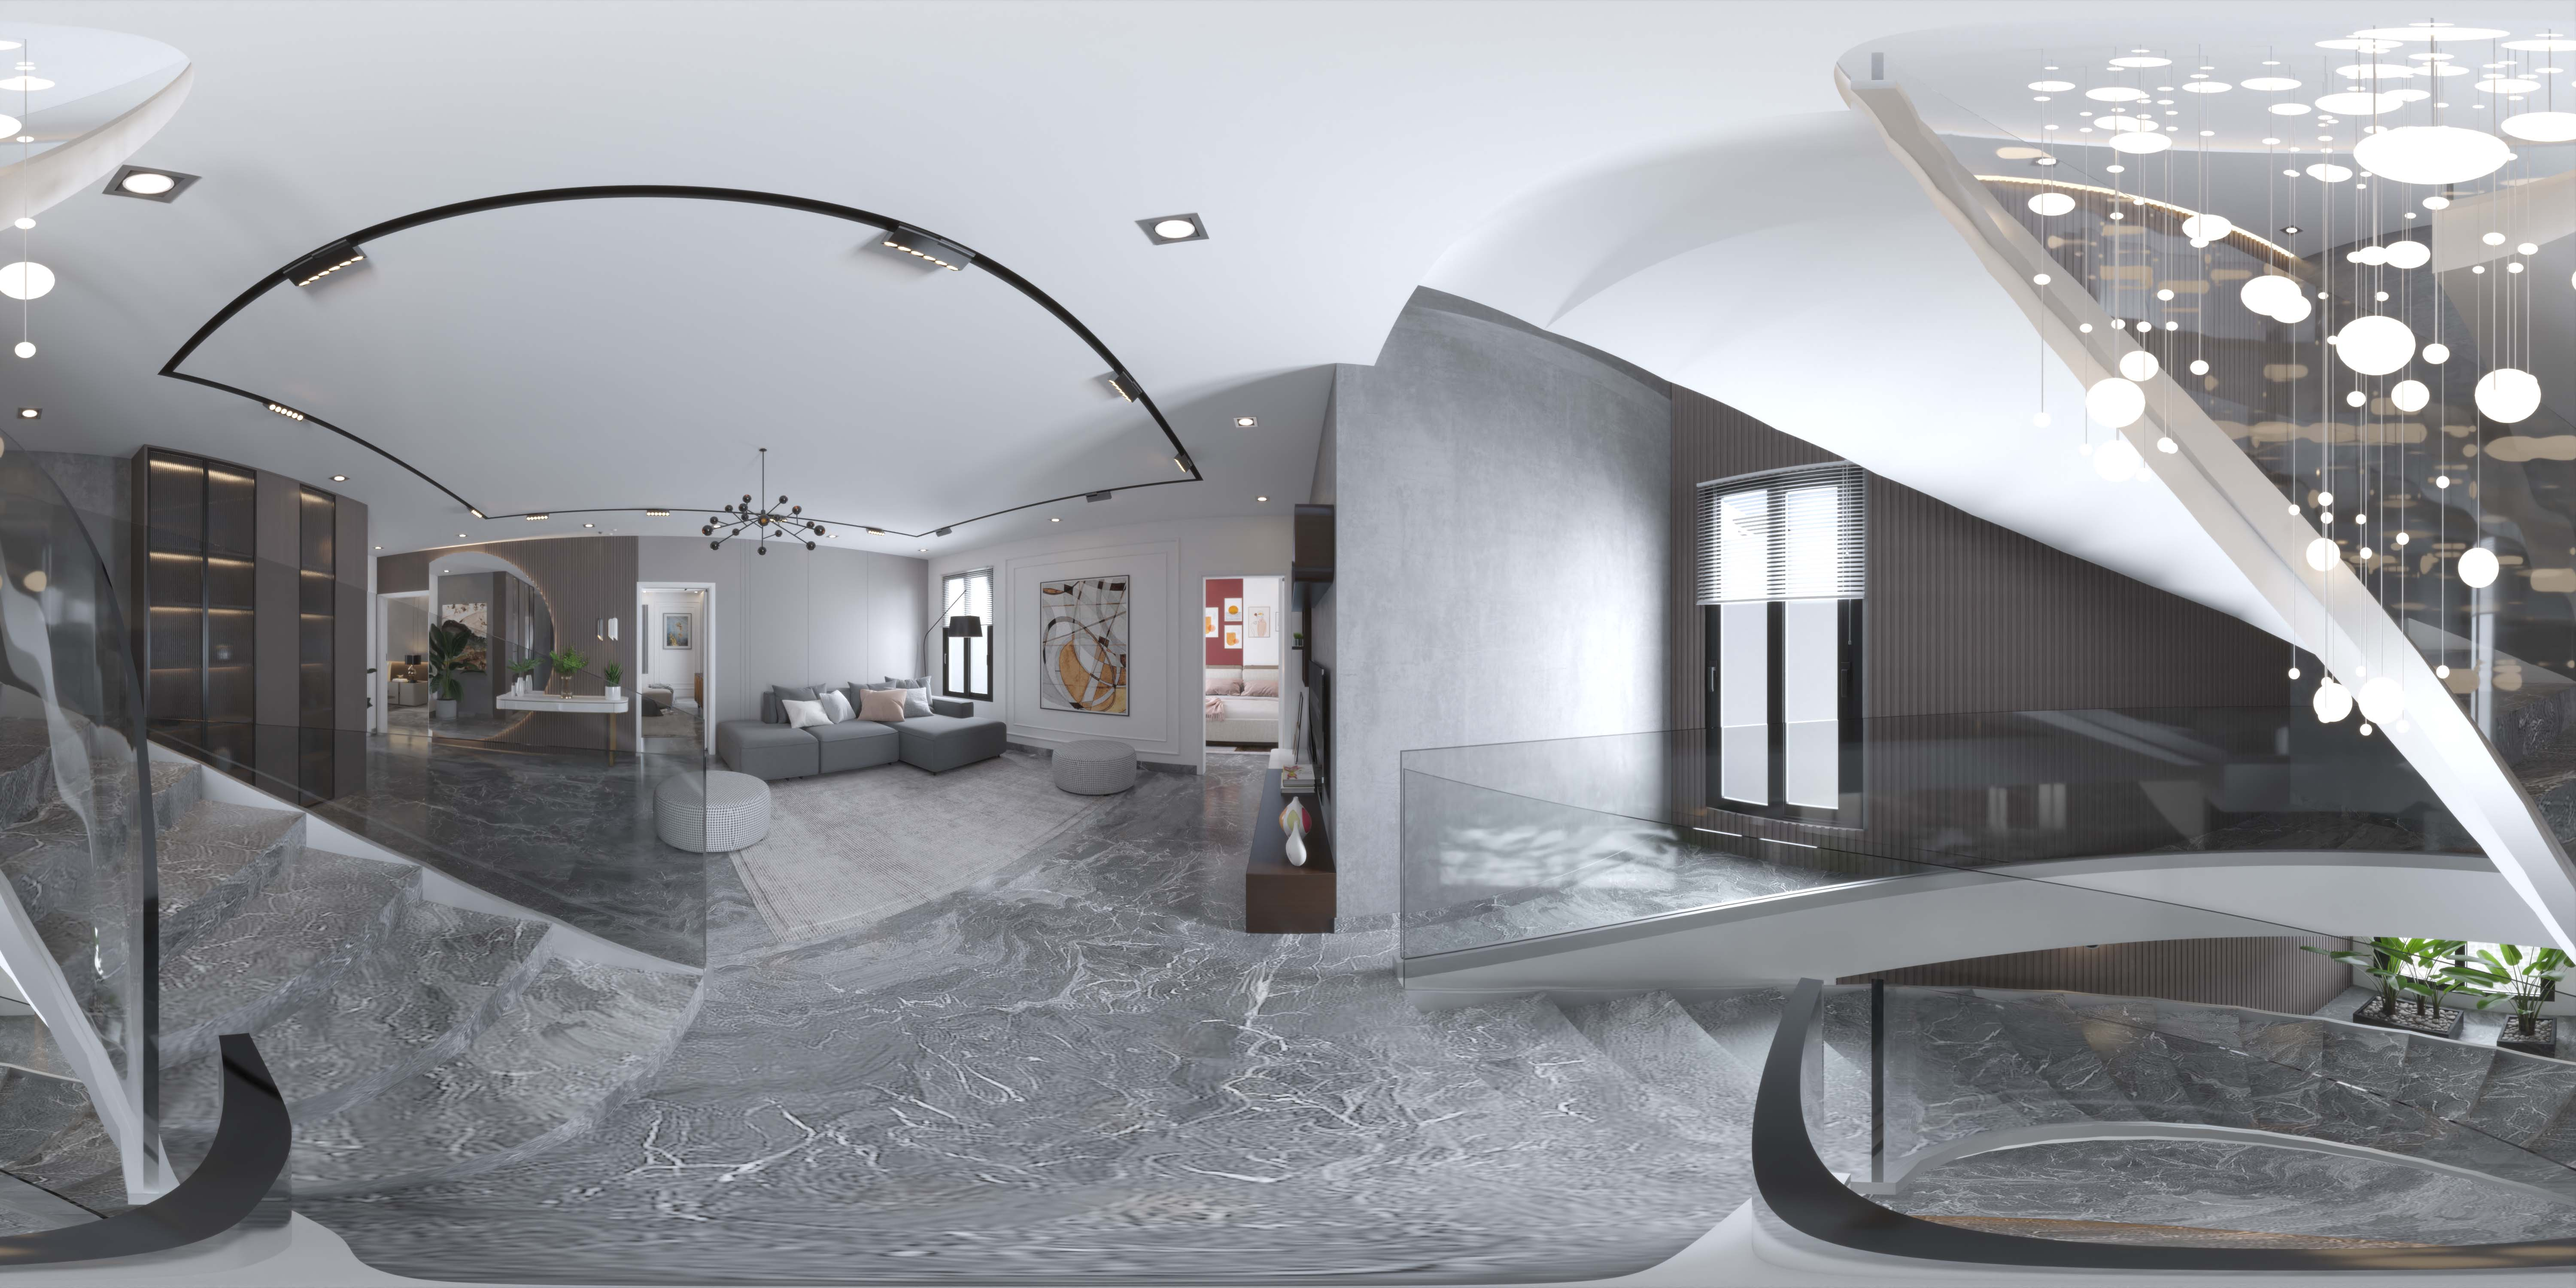
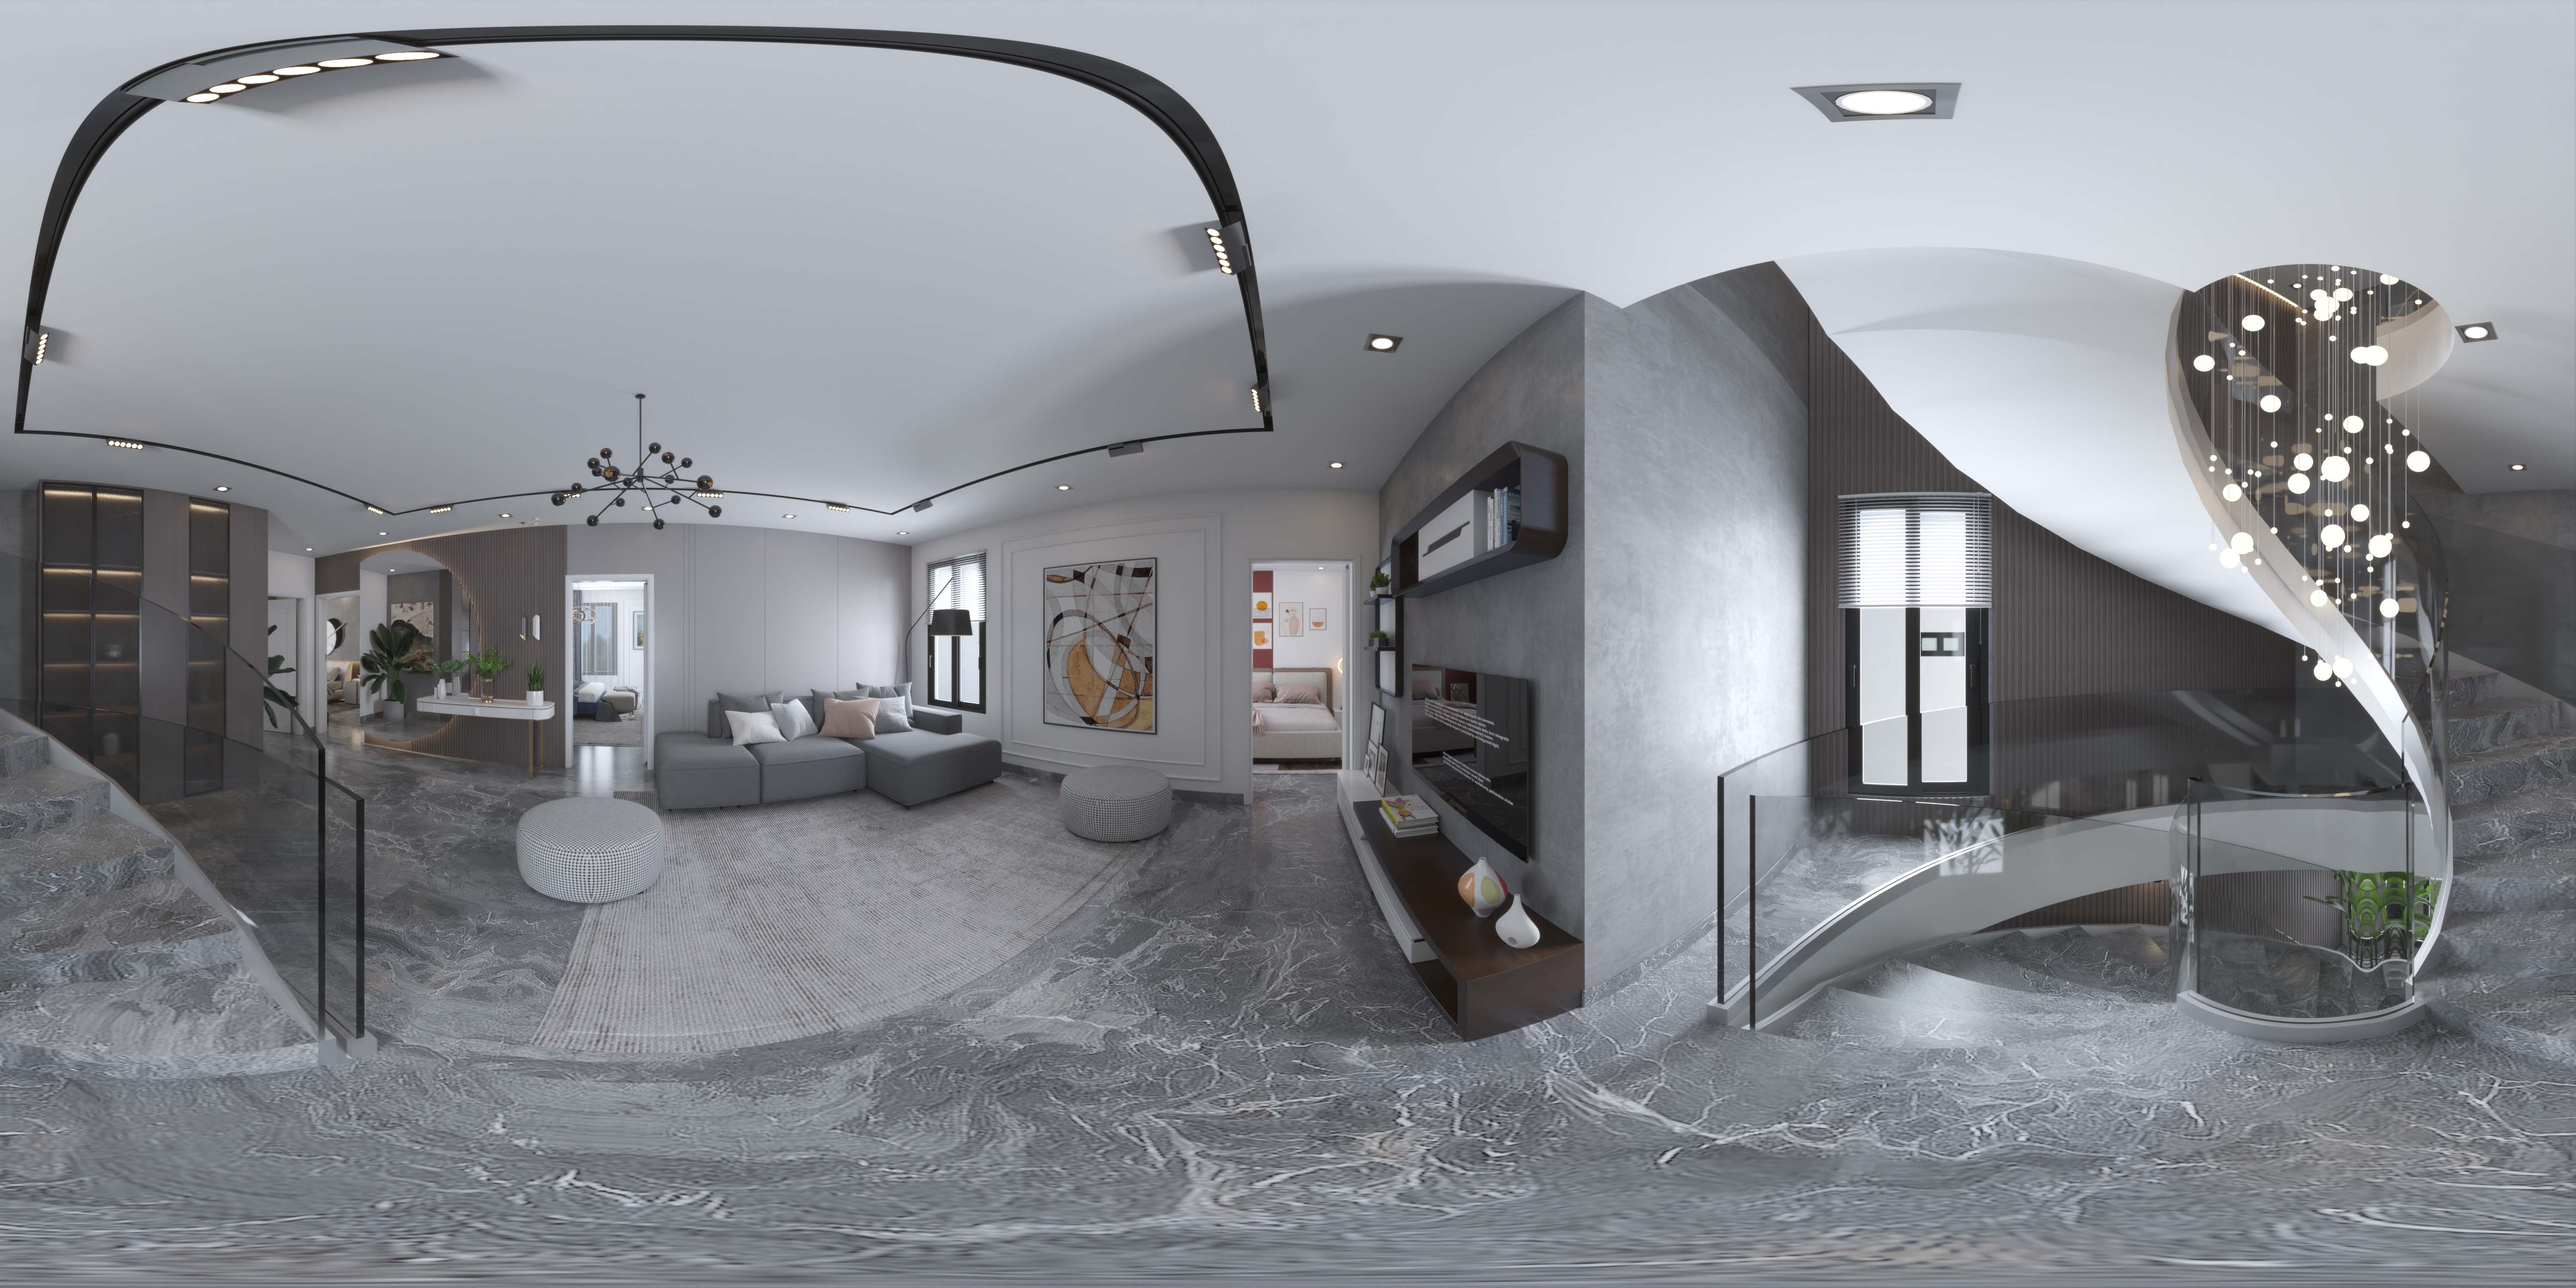
first commit -27

diff --git a/index.html b/index.html
@@ -103,6 +103,16 @@ de haut standing" />
             <img id="Scene-44" src="./Style/Images/Scene-44.jpg">
             <img id="Scene-45" src="./Style/Images/Scene-45.jpg">
             <img id="Scene-46" src="./Style/Images/Scene-46.jpg">
+            <img id="Scene-47" src="./Style/Images/Scene-47.jpg">
+            <img id="Scene-48" src="./Style/Images/Scene-48.jpg">
+            <img id="Scene-49" src="./Style/Images/Scene-49.jpg">
+            <img id="Scene-50" src="./Style/Images/Scene-50.jpg">
+            <img id="Scene-51" src="./Style/Images/Scene-51.jpg">
+            <img id="Scene-52" src="./Style/Images/Scene-52.jpg">
+            <img id="Scene-53" src="./Style/Images/Scene-53.jpg">
+            <img id="Scene-54" src="./Style/Images/Scene-54.jpg">
+            <img id="Scene-55" src="./Style/Images/Scene-55.jpg">
+            <img id="Scene-56" src="./Style/Images/Scene-56.jpg">
 
         </a-assets>
         <a-sound position="0 15 0" sound="src: #the_sound; autoplay: true; loop: true" allow="autoplay"></a-sound>
@@ -855,14 +865,23 @@ de haut standing" />
         <a-entity scale="0 0 0" class="groups" id="Group-35" visible="false">
 
             <a-plane data-clickable class="Dote" material="src: #Arrow-3; transparent:true"
-                position="-0.98514 -0.373 -0.60191" rotation="-80.92455898427748 15.328339893134913 -31.740715934657345"
+                position="0.14524 -0.43083 -0.76731"
+                rotation="-80.92455898427748 15.328339893134913 -31.740715934657345"
                 the_dote="Name_of_dote: Dote-21 ; Group_to_activate: Group-21; The_rotation: 0">
             </a-plane>
 
+
             <a-plane data-clickable class="Dote" material="src: #Arrow-1; transparent:true"
-                position="-2.60987 -0.373 2.92351" rotation="-82.23605937733193 119.56196789892454 173.6440271391181"
+                position="-1.28956 -0.373 2.26755" rotation="-82.23605937733193 119.56196789892454 173.6440271391181"
                 the_dote="Name_of_dote: Dote-36 ; Group_to_activate: Group-36; The_rotation: 0">
             </a-plane>
+
+
+            <a-plane data-clickable class="Dote" material="src: #Arrow-1; transparent:true"
+                position="0.64666 -0.373 6.67923" rotation="-82.23605937733193 119.56196789892454 173.6440271391181"
+                the_dote="Name_of_dote: Dote-52 ; Group_to_activate: Group-52; The_rotation: 0">
+            </a-plane>
+
 
 
         </a-entity>
@@ -883,6 +902,11 @@ de haut standing" />
                 position="4.5156 -0.373 1.77529" rotation="-80.92455898427748 -33.59423440190556 -31.740715934657345"
                 the_dote="Name_of_dote: Dote-40 ; Group_to_activate: Group-40; The_rotation: 0">
             </a-plane>
+            <a-plane data-clickable class="Dote" material="src: #Arrow-1; transparent:true"
+                position="2.82841 -0.373 4.93333" rotation="-82.31455459526485 10.750980067834767 -76.51450283515553"
+                the_dote="Name_of_dote: Dote-52 ; Group_to_activate: Group-52; The_rotation: 0">
+            </a-plane>
+
 
 
         </a-entity>
@@ -935,6 +959,11 @@ de haut standing" />
                 position="2.81879 -0.75422 1.90233" rotation="-83.54870568597664 -75.37431682284519 7.846084046521494"
                 the_dote="Name_of_dote: Dote-41 ; Group_to_activate: Group-41; The_rotation: 0">
             </a-plane>
+            <a-plane data-clickable class="Dote" material="src: #Arrow-1; transparent:true"
+                position="-3.13517 -0.75422 4.09567" rotation="-82.23605937733193 119.56196789892454 173.6440271391181"
+                the_dote="Name_of_dote: Dote-52 ; Group_to_activate: Group-52; The_rotation: 0">
+            </a-plane>
+
 
         </a-entity>
 
@@ -1013,14 +1042,190 @@ de haut standing" />
                 the_dote="Name_of_dote: Dote-41 ; Group_to_activate: Group-41; The_rotation: 0">
             </a-plane>
 
+            <a-plane data-clickable class="Dote" material="src: #Arrow-1; transparent:true"
+                position="4.22377 -0.75422 -0.32519"
+                rotation="-82.57696926543477 -121.05624182862573 53.823655274589534"
+                the_dote="Name_of_dote: Dote-47 ; Group_to_activate: Group-47; The_rotation: 0">
+            </a-plane>
+
+            <a-plane data-clickable class="Dote" material="src: #Arrow-1; transparent:true"
+                position="-1.0307 -0.75422 -4.30097"
+                rotation="-82.57696926543477 -121.05624182862573 53.823655274589534"
+                the_dote="Name_of_dote: Dote-48 ; Group_to_activate: Group-48 ; The_rotation: 0">
+            </a-plane>
+
+
         </a-entity>
         <!-- Group-46 -->
         <a-entity scale="0 0 0" class="groups" id="Group-46" visible="false">
 
             <a-plane data-clickable class="Dote" material="src: #Arrow-1; transparent:true"
-                position="-4.39296 -0.75422 -1.00623" rotation="-74.38252687947373 90.89860828191483 -170.845128309904"
+                position="-3.92266 -0.75422 -2.53053" rotation="-74.38252687947373 90.89860828191483 -170.845128309904"
+                the_dote="Name_of_dote: Dote-48 ; Group_to_activate: Group-48; The_rotation: 0">
+            </a-plane>
+
+            <a-plane data-clickable class="Dote" material="src: #Arrow-1; transparent:true"
+                position="1.32221 -0.75422 2.88116" rotation="-87.17552852915476 -94.91561538357705 14.929561267723862"
+                the_dote="Name_of_dote: Dote-47 ; Group_to_activate: Group-47; The_rotation: 0">
+            </a-plane>
+            <a-plane data-clickable class="Dote" material="src: #Arrow-1; transparent:true"
+                position="2.89391 -0.373 5.04635" rotation="-85.40337006881512 -176.07451410606302 110.4605333232714"
+                the_dote="Name_of_dote: Dote-52 ; Group_to_activate: Group-52; The_rotation: 0">
+            </a-plane>
+
+
+
+
+        </a-entity>
+        <!-- Group-47 -->
+        <a-entity scale="0 0 0" class="groups" id="Group-47" visible="false">
+
+            <a-plane data-clickable class="Dote" material="src: #Arrow-1; transparent:true"
+                position="-5.14353 -0.75422 0.61015" rotation="-74.38252687947373 90.89860828191483 -170.845128309904"
                 the_dote="Name_of_dote: Dote-45 ; Group_to_activate: Group-45; The_rotation: 0">
             </a-plane>
+            <a-plane data-clickable class="Dote" material="src: #Arrow-1; transparent:true"
+                position="-0.95179 -0.75422 -3.64704" rotation="-89.11842841244338 105.9284371637866 174.09379900829578"
+                the_dote="Name_of_dote: Dote-46 ; Group_to_activate: Group-46; The_rotation: 0">
+            </a-plane>
+
+        </a-entity>
+        <!-- Group-48 -->
+        <a-entity scale="0 0 0" class="groups" id="Group-48" visible="false">
+
+            <a-plane data-clickable class="Dote" material="src: #Arrow-1; transparent:true"
+                position="-0.05401 -0.75422 5.04346" rotation="-88.1896638265363 97.68128266067353 -177.65702353621435"
+                the_dote="Name_of_dote: Dote-45 ; Group_to_activate: Group-45; The_rotation: 0">
+            </a-plane>
+
+            <a-plane data-clickable class="Dote" material="src: #Arrow-1; transparent:true"
+                position="-0.53482 -0.75422 -5.46738" rotation="-89.1184284124434 105.9284371637866 174.09379900829578"
+                the_dote="Name_of_dote: Dote-49 ; Group_to_activate: Group-49; The_rotation: 0">
+            </a-plane>
+            <a-plane data-clickable class="Dote" material="src: #Arrow-1; transparent:true"
+                position="4.80905 -0.75422 -4.24946" rotation="-75.11877764621684 -90.94215307434479 10.930888815505845"
+                the_dote="Name_of_dote: Dote-51 ; Group_to_activate: Group-51; The_rotation: 0">
+            </a-plane>
+
+        </a-entity>
+        <!-- Group-49 -->
+        <a-entity scale="0 0 0" class="groups" id="Group-49" visible="false">
+
+            <a-plane data-clickable class="Dote" material="src: #Arrow-1; transparent:true"
+                position="-0.61946 -0.42491 4.89855" rotation="-88.1896638265363 97.68128266067353 -177.65702353621435"
+                the_dote="Name_of_dote: Dote-48 ; Group_to_activate: Group-48; The_rotation: 0">
+            </a-plane>
+
+
+            <a-plane data-clickable class="Dote" material="src: #Arrow-1; transparent:true"
+                position="-3.21564 -0.75422 -0.98237" rotation="-89.1184284124434 105.9284371637866 174.09379900829578"
+                the_dote="Name_of_dote: Dote-50 ; Group_to_activate: Group-50; The_rotation: 0">
+            </a-plane>
+
+        </a-entity>
+        <!-- Group-50 -->
+        <a-entity scale="0 0 0" class="groups" id="Group-50" visible="false">
+
+            <a-plane data-clickable class="Dote" material="src: #Arrow-1; transparent:true"
+                position="2.96426 -0.42491 1.25588" rotation="-88.1896638265363 97.68128266067353 -177.65702353621435"
+                the_dote="Name_of_dote: Dote-49 ; Group_to_activate: Group-49; The_rotation: 0">
+            </a-plane>
+
+
+        </a-entity>
+        <!-- Group-51 -->
+        <a-entity scale="0 0 0" class="groups" id="Group-51" visible="false">
+
+            <a-plane data-clickable class="Dote" material="src: #Arrow-1; transparent:true"
+                position="-4.05781 -0.42491 3.49098" rotation="-88.1896638265363 97.68128266067353 -177.65702353621435"
+                the_dote="Name_of_dote: Dote-48 ; Group_to_activate: Group-48; The_rotation: 0">
+            </a-plane>
+
+        </a-entity>
+        <!-- Group-52 -->
+        <a-entity scale="0 0 0" class="groups" id="Group-52" visible="false">
+
+            <a-plane data-clickable class="Dote" material="src: #Arrow-1; transparent:true"
+                position="0.81257 -0.42491 -4.5427" rotation="-85.35409569843387 -92.98818536075694 12.998693498132987"
+                the_dote="Name_of_dote: Dote-40 ; Group_to_activate: Group-40; The_rotation: 0">
+            </a-plane>
+
+            <a-plane data-clickable class="Dote" material="src: #Arrow-1; transparent:true"
+                position="2.78739 -0.85361 2.8713" rotation="-88.1896638265363 97.68128266067353 -177.65702353621435"
+                the_dote="Name_of_dote: Dote-53 ; Group_to_activate: Group-53; The_rotation: 0">
+            </a-plane>
+            <a-plane data-clickable class="Dote" material="src: #Arrow-1; transparent:true"
+                position="-3.69997 -0.85361 0.87283" rotation="-88.1896638265363 97.68128266067353 -177.65702353621435"
+                the_dote="Name_of_dote: Dote-54 ; Group_to_activate: Group-54; The_rotation: 0">
+            </a-plane>
+
+
+        </a-entity>
+        <!-- Group-53 -->
+        <a-entity scale="0 0 0" class="groups" id="Group-53" visible="false">
+
+            <a-plane data-clickable class="Dote" material="src: #Arrow-1; transparent:true"
+                position="-2.27944 -0.85361 -2.87603" rotation="-88.1896638265363 97.68128266067353 -177.65702353621435"
+                the_dote="Name_of_dote: Dote-52 ; Group_to_activate: Group-52; The_rotation: 0">
+            </a-plane>
+            <a-plane data-clickable class="Dote" material="src: #Arrow-1; transparent:true"
+                position="-5.73482 -0.85361 -1.75042" rotation="-88.1896638265363 97.68128266067353 -177.65702353621435"
+                the_dote="Name_of_dote: Dote-54 ; Group_to_activate: Group-54; The_rotation: 0">
+            </a-plane>
+
+        </a-entity>
+        <!-- Group-54 -->
+        <a-entity scale="0 0 0" class="groups" id="Group-54" visible="false">
+
+            <a-plane data-clickable class="Dote" material="src: #Arrow-1; transparent:true"
+                position="3.16769 -0.85361 -1.45446" rotation="-88.1896638265363 97.68128266067353 -177.65702353621435"
+                the_dote="Name_of_dote: Dote-52 ; Group_to_activate: Group-52; The_rotation: 0">
+            </a-plane>
+
+            <a-plane data-clickable class="Dote" material="src: #Arrow-1; transparent:true"
+                position="5.44986 -0.64475 1.9428" rotation="-76.30651915552305 -91.02179420786797 11.013394738004685"
+                the_dote="Name_of_dote: Dote-53 ; Group_to_activate: Group-53; The_rotation: 0">
+            </a-plane>
+
+            <a-plane data-clickable class="Dote" material="src: #Arrow-1; transparent:true"
+                position="-0.34767 -0.64475 1.91487" rotation="-84.94901453727637 92.74811604459714 -172.7169814265964"
+                the_dote="Name_of_dote: Dote-55 ; Group_to_activate: Group-55; The_rotation: 0">
+            </a-plane>
+
+
+
+        </a-entity>
+        <!-- Group-55 -->
+        <a-entity scale="0 0 0" class="groups" id="Group-55" visible="false">
+
+
+            <a-plane data-clickable class="Dote" material="src: #Arrow-1; transparent:true"
+                position="-2.5588 -1.44778 -0.07868" rotation="-64.34717109775737 90.55884430940226 -170.48301898338133"
+                the_dote="Name_of_dote: Dote-56 ; Group_to_activate: Group-56; The_rotation: 0">
+            </a-plane>
+
+
+            <a-plane data-clickable class="Dote" material="src: #Arrow-1; transparent:true"
+                position="0.14078 -0.64475 -2.02885" rotation="-81.29468971993198 -91.59818974976957 11.600103520218648"
+                the_dote="Name_of_dote: Dote-54 ; Group_to_activate: Group-54; The_rotation: 0">
+            </a-plane>
+
+
+
+
+        </a-entity>
+        <!-- Group-56 -->
+        <a-entity scale="0 0 0" class="groups" id="Group-56" visible="false">
+
+
+
+            <a-plane data-clickable class="Dote" material="src: #Arrow-1; transparent:true"
+                position="3.28651 -1.3517 0.26461" rotation="-64.54713336825802 -90.56285501396817 10.528672443324009"
+                the_dote="Name_of_dote: Dote-55 ; Group_to_activate: Group-55; The_rotation: 0">
+            </a-plane>
+
+
+
 
         </a-entity>
 
